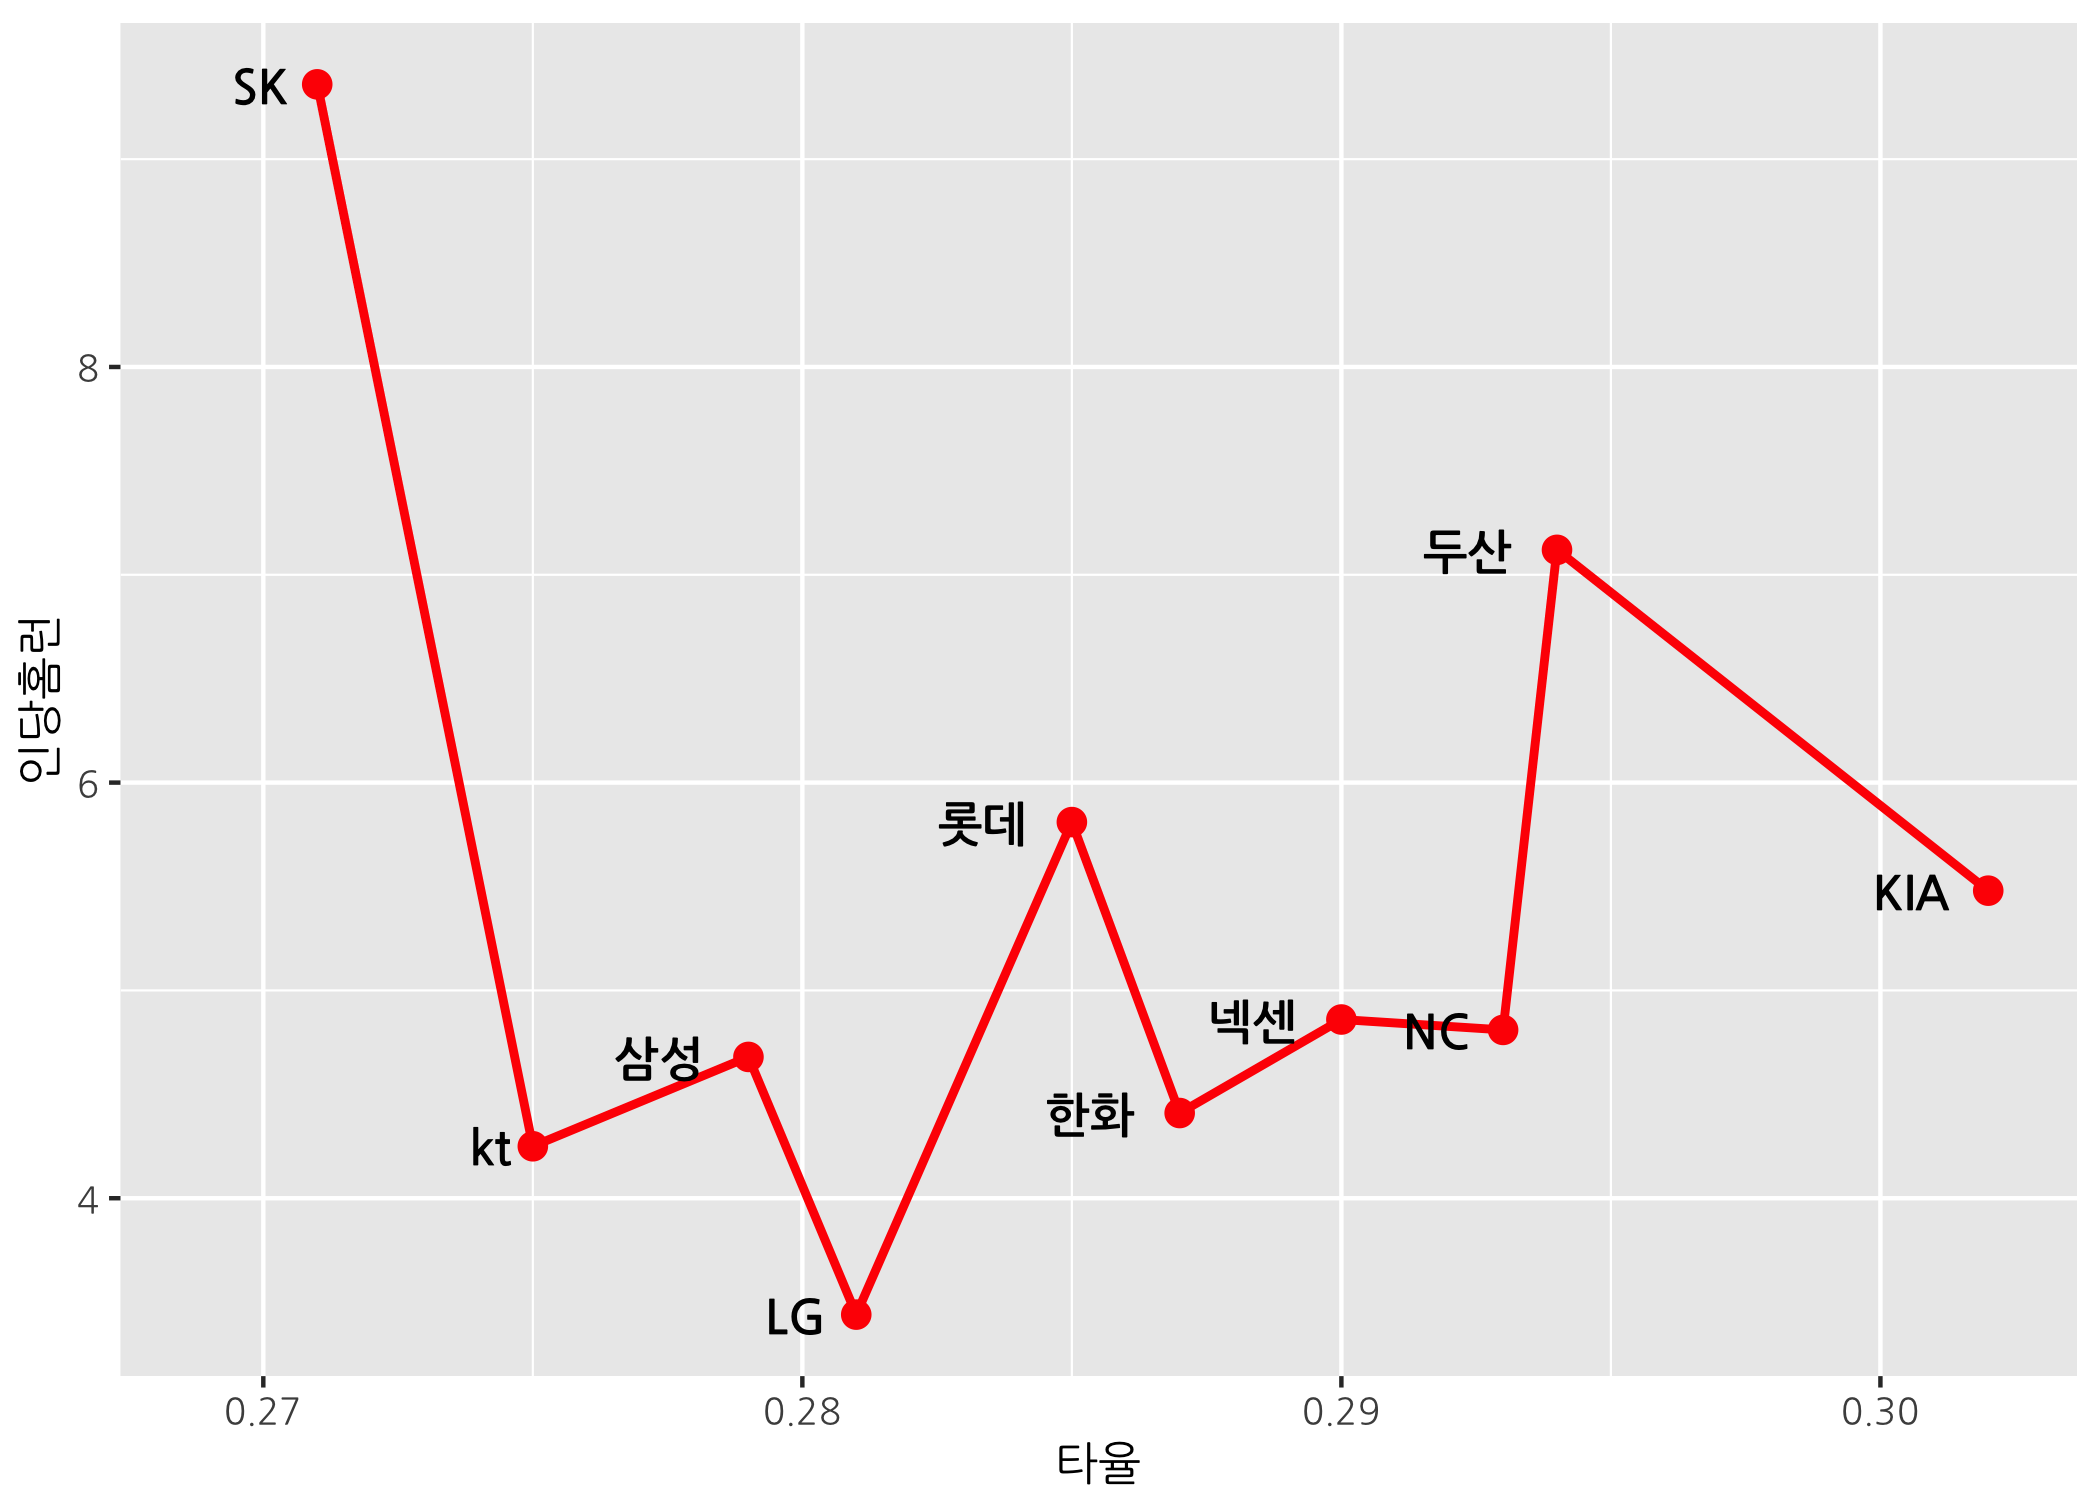
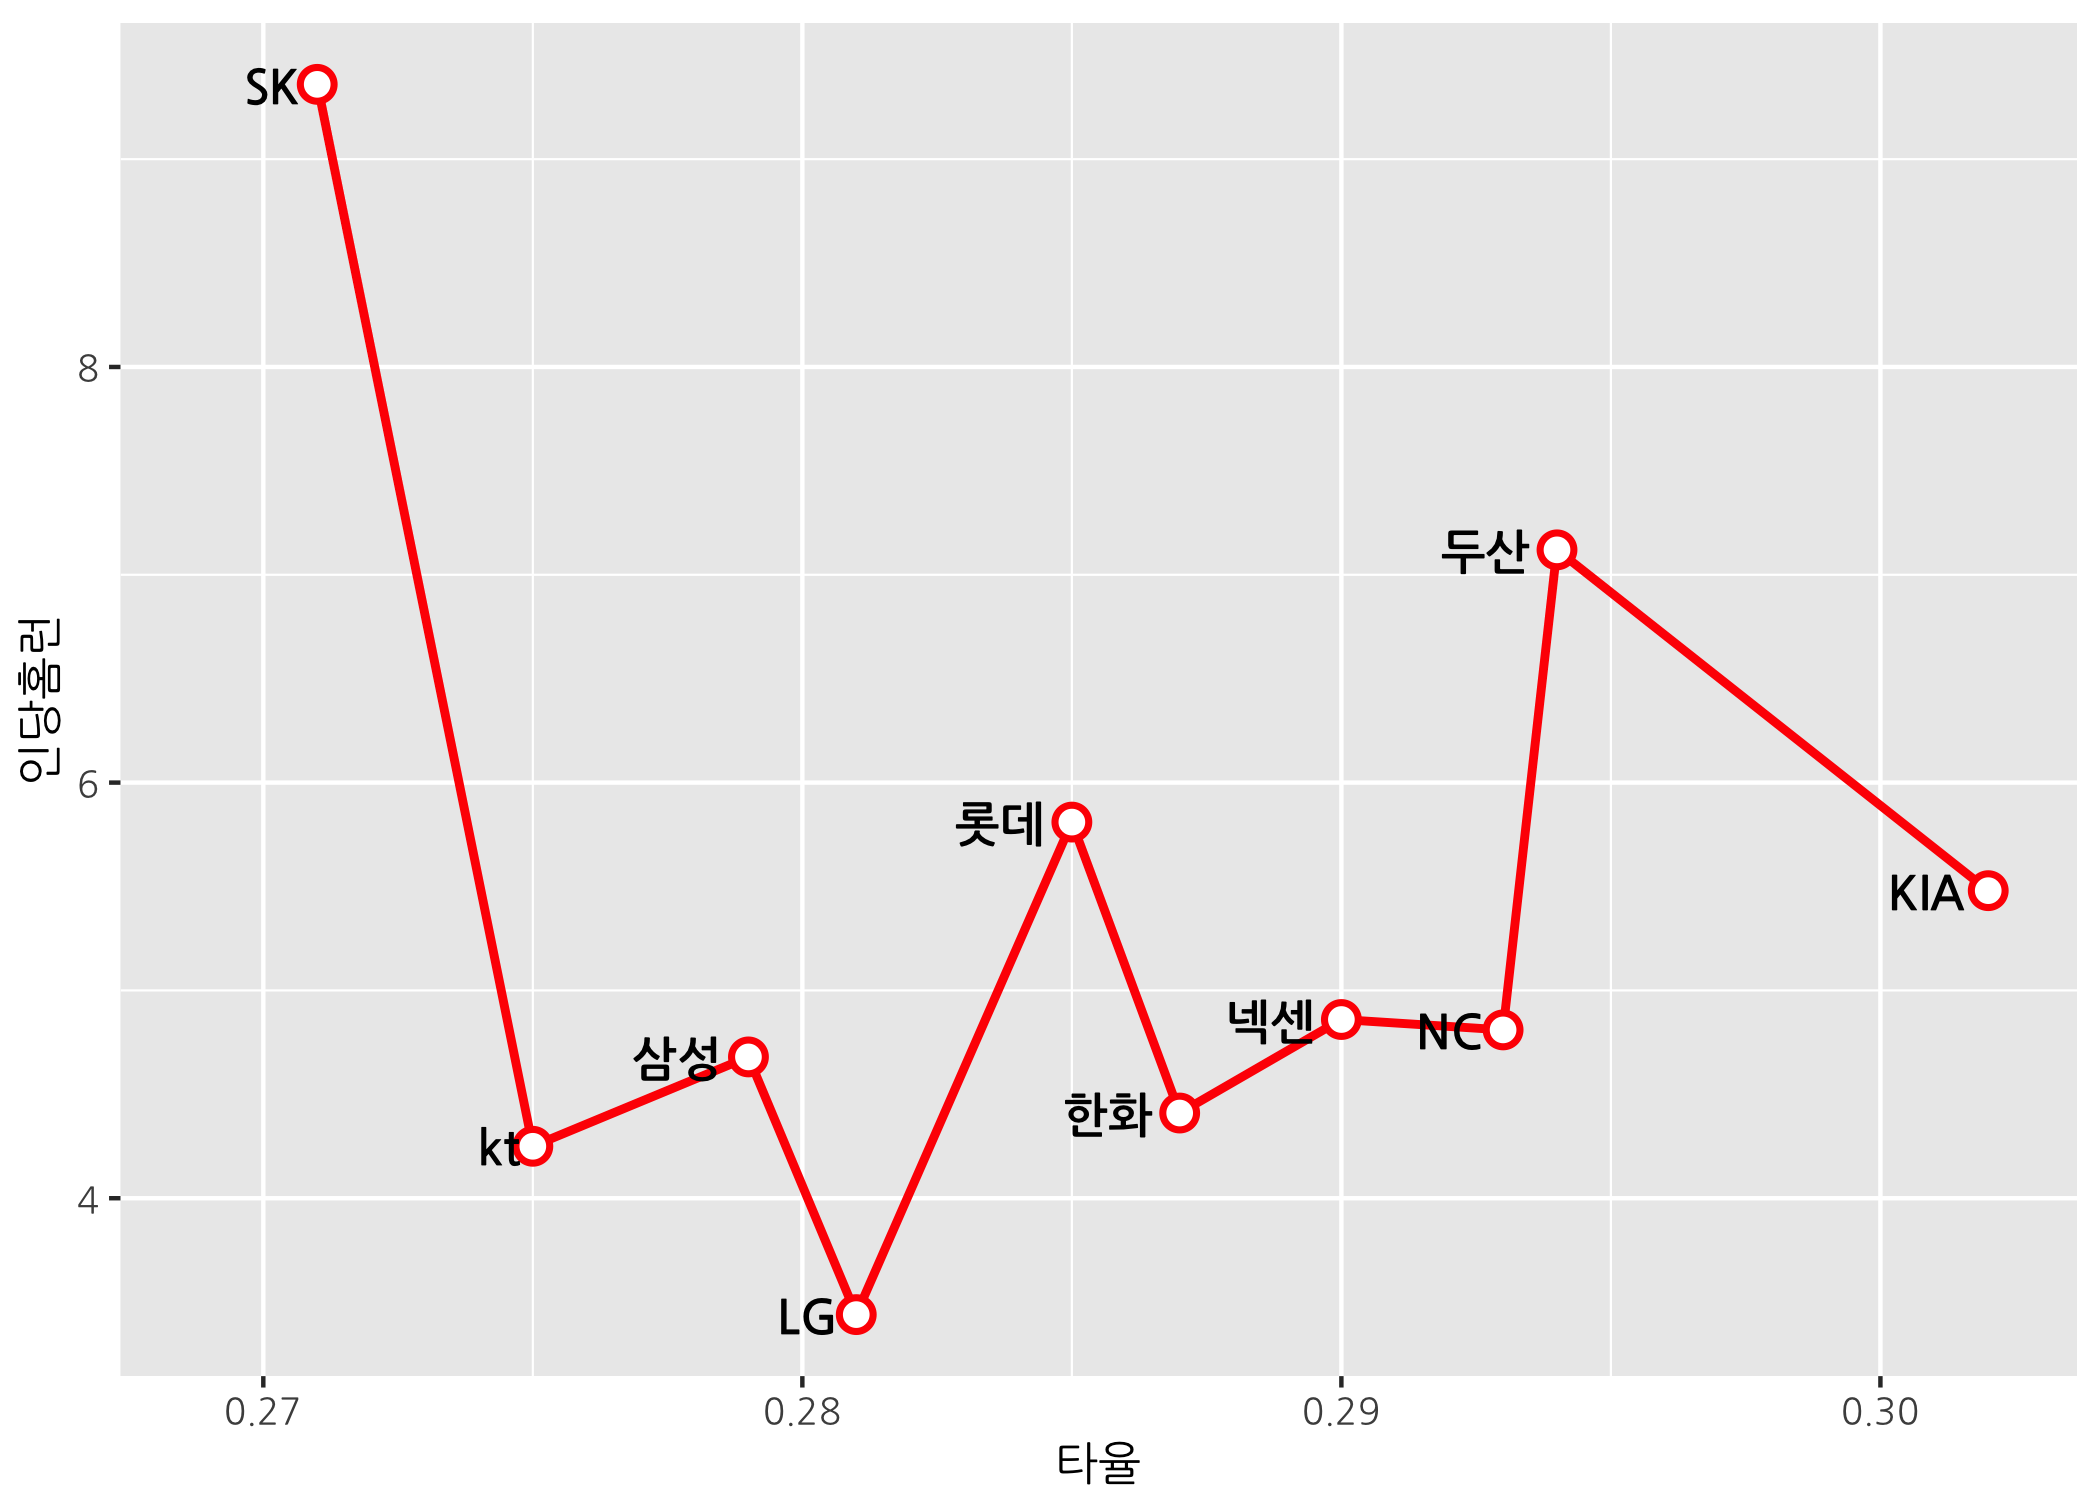
change files

diff --git a/_posts/2018-04-25-R-시각화-2.md b/_posts/2018-04-25-R-시각화-2.md
@@ -96,7 +96,7 @@ gghist +
 
 ![](https://raw.githubusercontent.com/MrKevinNa/MrKevinNa.github.io/master/images/2018-04-25-R-시각화-2_files/unnamed-chunk-4-1.png)
 
-히스토그램의 막대 빈도수를 출력하고자 할 때, `geom_text()` 함수의 `mapping` 인자에 `aes(lebel = ..count..)`와 `stat = 'bin'` 이 두 부분이 한 눈에 이해하기 어려웠을 것입니다. `ggplot()` 함수에 할당된 데이터에는 히스토그램에 출력될 빈도수가 따로 들어있지 않으므로 막대 구간별 빈도수를 계산해서 출력하라는 의미를 담고 있습니다. `breaks = breaks`에서 히스토그램의 막대 구간을 정해준 것이구요. 저 막대 구간에 해당하는 빈도를 계산하는 것이지요. `vjust = -1`은 막대 끝을 기준으로 `1`만큼 위로 올려서 출력하라는 것을 의미합니다.
+히스토그램의 막대 빈도수를 출력하고자 할 때, `geom_text()` 함수의 `mapping` 인자에 `aes(lebel = ..count..)`와 `stat = 'bin'` 이 두 부분이 한 눈에 이해하기 어려웠을 것입니다. `ggplot()` 함수에 할당된 데이터에는 히스토그램에 출력될 빈도수가 따로 들어있지 않으므로 막대 구간별 빈도수를 계산해서 출력하라는 의미를 담고 있습니다. `breaks = breaks`에서 히스토그램의 막대 구간을 정해준 것이구요. 저 막대 구간에 해당하는 빈도를 계산하는 것이지요. `vjust = -1`은 막대 끝인 0.5를 기준으로 위에 출력하라는 것을 의미합니다.
 
 이렇게 하고 보니 R 기본 함수로 그래프를 그리는 것이 상당히 편리하다는 생각이 마구 듭니다. 그런데 **ggplot2** 패키지로 그린 그래프가 좀 더 예쁜 것 같긴 합니다. 지금 히스토그램에서 2가지를 더해보겠습니다. 하나는 히스토그램을 중첩하는 것이고, 또 다른 하나는 테마를 적용해보는 것입니다.
 
@@ -138,7 +138,7 @@ gghist +
 
 ### 상자수염그림 그리기
 
-이번에는 상자수염그림을 두 가지로 그려보고 비교해보겠습니다. 먼저 R 기본 함수로 그려보겠습니다.
+상자수염그림도 두 가지로 그려보고 비교해보겠습니다. 먼저 R 기본 함수로 그려보겠습니다.
 
 ``` r
 # R 기본 함수로 상자수염그림을 그립니다. 
@@ -253,7 +253,7 @@ ggbar + geom_col()
 
 ![](https://raw.githubusercontent.com/MrKevinNa/MrKevinNa.github.io/master/images/2018-04-25-R-시각화-2_files/unnamed-chunk-13-1.png)
 
-다른 방법으로는 `geom_bar()` 함수의 `stat` 인자에 기본값인 **count** 대신 **identity**로 바꿔서 할당하는 것입니다.
+다른 방법으로는 `geom_bar()` 함수의 `stat` 인자에 기본값인 `count` 대신 `identity`로 바꿔서 할당하는 것입니다.
 
 ``` r
 # stat 인자를 아래와 같이 설정한 후 막대그래프를 다시 그립니다. 
@@ -463,7 +463,8 @@ ggbar +
   scale_fill_gradientn(colors = myPal) + 
   geom_text(mapping = aes(label = 홈런),
             size = 4,
-            vjust = -1)
+            vjust = -1) +
+  scale_y_continuous(limits = c(0, 250))
 ```
 
 ![](https://raw.githubusercontent.com/MrKevinNa/MrKevinNa.github.io/master/images/2018-04-25-R-시각화-2_files/unnamed-chunk-26-1.png)
@@ -479,7 +480,8 @@ ggbar +
   scale_fill_gradientn(colors = myPal) + 
   geom_text(mapping = aes(label = 홈런),
             size = 4,
-            vjust = -1) + 
+            vjust = -1) +
+  scale_y_continuous(limits = c(0, 250)) + 
   ggtitle(label = '2017 프로야구 팀별 홈런 개수 비교')
 ```
 
@@ -496,7 +498,8 @@ ggbar +
   scale_fill_gradientn(colors = myPal) + 
   geom_text(mapping = aes(label = 홈런),
             size = 4,
-            vjust = -1) + 
+            vjust = -1) +
+  scale_y_continuous(limits = c(0, 250)) + 
   ggtitle(label = '2017 프로야구 팀별 홈런 개수 비교') + 
   theme_light()
 ```
@@ -514,7 +517,8 @@ ggbar +
   scale_fill_gradientn(colors = myPal) + 
   geom_text(mapping = aes(label = 홈런),
             size = 4,
-            vjust = -1) + 
+            vjust = -1) +
+  scale_y_continuous(limits = c(0, 250)) + 
   ggtitle(label = '2017 프로야구 팀별 홈런 개수 비교') + 
   theme_light() + 
   theme(axis.title = element_text(family = 'NanumGothic'),
@@ -552,7 +556,7 @@ ggline +
 
 ![](https://raw.githubusercontent.com/MrKevinNa/MrKevinNa.github.io/master/images/2018-04-25-R-시각화-2_files/unnamed-chunk-31-1.png)
 
-혹시 선을 굵게 한다고 해서 `stroke` 인자를 떠올리신 건 아니죠? `stroke`은 산점도에서 점 테두리 두께를 조절할 때 사용하는 인자입니다. 선그래프에서는 `size`로 선 두께를 조절합니다.
+혹시 선을 굵게 한다고 해서 `stroke` 인자를 떠올리신 건 아니죠? `stroke`는 산점도에서 점 테두리 두께를 조절할 때 사용하는 인자입니다. 선그래프에서는 `size`로 선 두께를 조절합니다.
 
 이번에는 각 팀별로 점을 추가해보도록 하겠습니다. `geom_point()` 함수를 추가해주면 간단하게 해결됩니다.
 
@@ -561,9 +565,9 @@ ggline +
 ggline + 
   geom_line(size = 1,
             color = 'red') +
-  geom_point(shape = 20,
+  geom_point(shape = 21,
              size = 3,
-             stroke = 1.5,
+             stroke = 1.2,
              color = 'red',
              fill = 'white')
 ```
@@ -577,13 +581,13 @@ ggline +
 ggline + 
   geom_line(size = 1,
             color = 'red') +
-  geom_point(shape = 20,
+  geom_point(shape = 21,
              size = 3,
-             stroke = 1.3,
+             stroke = 1.2,
              color = 'red',
              fill = 'white') + 
   geom_text(mapping = aes(label = 팀명),
-            hjust = 1.5,
+            hjust = 1.3,
             size = 4,
             family = 'NanumGothic',
             fontface = 'bold') +
@@ -597,13 +601,13 @@ ggline +
 ggline + 
   geom_line(size = 1,
             color = 'red') +
-  geom_point(shape = 20,
+  geom_point(shape = 21,
              size = 3,
-             stroke = 1.3,
+             stroke = 1.2,
              color = 'red',
              fill = 'white') + 
   geom_label(mapping = aes(label = 팀명),
-             hjust = 1.5,
+             hjust = 1.3,
              size = 4,
              family = 'NanumGothic',
             fontface = 'bold') +
@@ -621,13 +625,13 @@ ggline +
 ggline + 
   geom_line(size = 1,
             color = 'red') +
-  geom_point(shape = 20,
+  geom_point(shape = 21,
              size = 3,
-             stroke = 1.3,
+             stroke = 1.2,
              color = 'red',
              fill = 'white') + 
   geom_label(mapping = aes(label = 팀명),
-             hjust = 1.5,
+             hjust = 1.3,
              size = 4,
              family = 'NanumGothic',
             fontface = 'bold') +
@@ -694,7 +698,7 @@ ggpnt +
 
 ![](https://raw.githubusercontent.com/MrKevinNa/MrKevinNa.github.io/master/images/2018-04-25-R-시각화-2_files/unnamed-chunk-37-1.png)
 
-타수가 50 이상인 선수로 했음에도 불구하고 하나의 산점도에 출력하려니 상당히 복잡하고 겹치는 점들이 부분적으로 있어 알아보기 힘듭니다. 이럴 때 같은 그래프를 팀별로 나누어 그릴 수 있습니다. 축 분할은 `x`축 또는 `y`축으로 나눌 수 있으며 `x-y`축 동시에 분할할 수도 있습니다.
+타수가 50 이상인 선수로 했음에도 불구하고 하나의 산점도에 출력하려니 상당히 복잡하고 겹치는 점들이 부분적으로 있어 알아보기 힘듭니다. 이럴 때 같은 그래프를 팀별로 나누어 그릴 수 있습니다. 축 분할은 x축 또는 y축으로 나눌 수 있습니다. 물론 x-y축 동시에 분할할 수도 있지만 이 포스팅에서는 다루지 않습니다.
 
 ``` r
 # x축(열) 기준으로 축을 나눕니다. 
@@ -722,7 +726,7 @@ ggpnt +
 
 ![](https://raw.githubusercontent.com/MrKevinNa/MrKevinNa.github.io/master/images/2018-04-25-R-시각화-2_files/unnamed-chunk-39-1.png)
 
-이것도 생각보다 어렵지 않죠? 주의해야 할 점은 축 분할을 할 때 기준이 되는 벡터가 가능한 범주형 또는 문자형이어야 한다는 것입니다. 사실 숫자형으로 지정해도 그래프를 그릴 수는 있지만, 아마 엄청 이상한 그래프를 마주하게 될 겁니다. 실험정신이 강한 분이라면 한 번 시도해볼 것을 권해드립니다.
+이것도 생각보다 어렵지 않죠? 주의해야 할 점은 축 분할을 할 때 기준이 되는 벡터가 가능한 범주형 또는 문자형이어야 한다는 것입니다. 사실 숫자형으로 지정해도 그래프를 그릴 수는 있지만, 아마 엄청 이상한 그래프를 마주하게 될 겁니다. 실험정신이 강한 분이라면 한 번 시도해보기 바랍니다.
 
 ### 주석 달기
 
